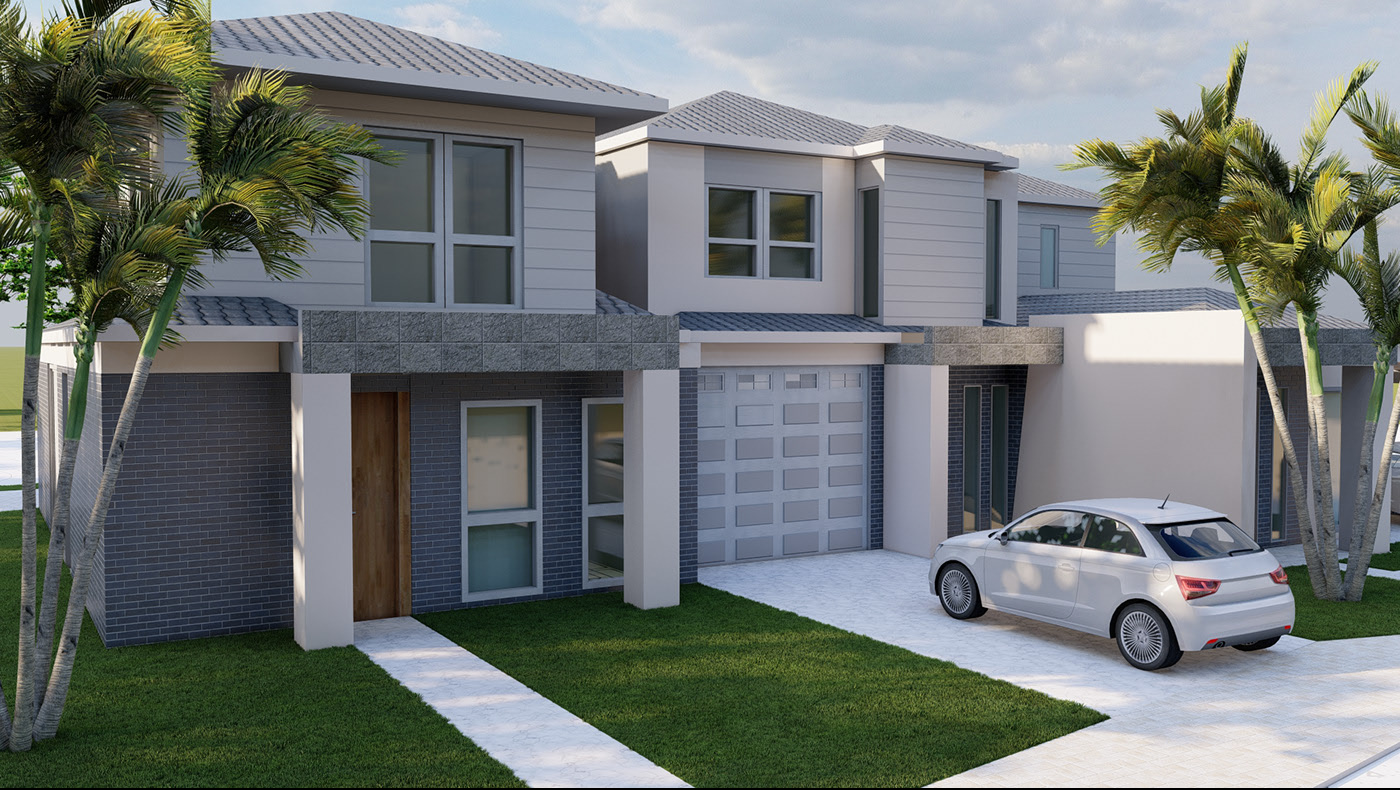
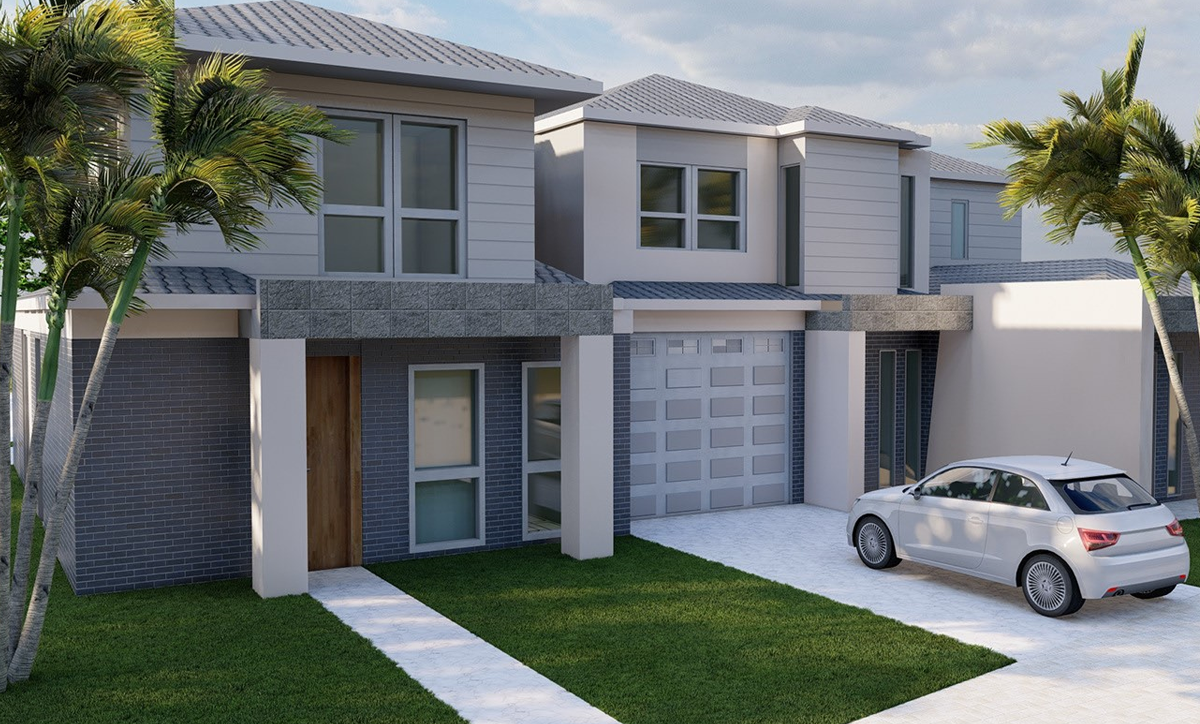
all up

diff --git a/3DModeling.html b/3DModeling.html
@@ -27,29 +27,25 @@
             align-content: center;
             padding: 25px;
             margin-top: 5px;
+            
+            
         }
-       .col-sm-4{
+     
         
-        padding-top: 10px;
-        padding-left: 5px;
-        overflow: hidden;
-        justify-content: center;
-        width: 625px;
-        height: 400px;
-        display: flex; 
-       }
-        
-       .col-sm-4 img{
-        vertical-align: middle;
+       .col-sm-4 image{
         object-fit: cover;
+        padding: 25px;
         overflow: hidden;
         justify-content: center;
-        width: 625px;
-        height: 400px;
-
+        width: 650px;
+        height: 300;
         display: flex;
+
+        
         
        }
+        
+      
              /* Add a black background color to the top navigation */
     .topnav {
         align-content: center;
@@ -65,11 +61,7 @@
      /* float: left; */
      background-color: #bbbbbb;
      align-items: center;
-<<<<<<< HEAD
     color: #252525;
-=======
-    color: #111111;
->>>>>>> 5c940e5438bf56ab28bd8db67124e917f00113ca
     text-align: center;
     margin-top: 20rem;
     padding: 0.6px 34px;
@@ -80,11 +72,7 @@
   }
   /* Change the color of links on hover */
   .topnav a:hover {
-<<<<<<< HEAD
     background-color: #1fa13f;
-=======
-    background-color: #48a878;
->>>>>>> 5c940e5438bf56ab28bd8db67124e917f00113ca
     color: black;
   }
   
@@ -111,7 +99,7 @@
 </div>
     <div class="row">
         <div class="col-sm-4">
-            <img src="ASSETS/3D MODEL/P 16.png" alt="" />
+            <img id="image" src="ASSETS/3D MODEL/P 16.png" alt="" />
         </div>
         
         <div class="col-sm-4">
@@ -120,98 +108,98 @@
         </div>
 
         <div class="col-sm-4">
-            <img src="ASSETS/3D MODEL/P 34.jpg" alt=""/>
+            <img id="image" src="ASSETS/3D MODEL/P 34.jpg" alt=""/>
         
         </div>
 
         <div class="col-sm-4">
-            <img src="ASSETS/3D MODEL/P 27.png" alt=""/> 
+            <img id="image" src="ASSETS/3D MODEL/P 27.png" alt=""/> 
         </div>
 
         <div class="col-sm-4">
-            <img src="ASSETS/3D MODEL/P 28.png" alt=""/>  
-
-        </div>
-
-        <div class="col-sm-4">
-            <img src="ASSETS/3D MODEL/P 33.png" alt=""/>
+            <img id="image" src="ASSETS/3D MODEL/P 28.png" alt=""/>  
 
         </div>
 
         <div class="col-sm-4">
-            <img src="ASSETS/3D MODEL/P 35.png" alt=""/>
+            <img id="image" src="ASSETS/3D MODEL/P 33.png" alt=""/>
 
         </div>
 
         <div class="col-sm-4">
-            <img src="ASSETS/3D MODEL/P 13.jpg" alt=""/>  
+            <img id="image" src="ASSETS/3D MODEL/P 35.png" alt=""/>
 
         </div>
 
         <div class="col-sm-4">
-            <img src="ASSETS/3D MODEL/P 11.jpg" alt=""/>  
+            <img id="image" src="ASSETS/3D MODEL/P 13.jpg" alt=""/>  
 
         </div>
 
         <div class="col-sm-4">
-            <img src="ASSETS/3D MODEL/P 04.jpg" alt=""/>
+            <img id="image" src="ASSETS/3D MODEL/P 11.jpg" alt=""/>  
+
+        </div>
+
+        <div class="col-sm-4">
+            <img id="image" src="ASSETS/3D MODEL/P 04.jpg" alt=""/>
 
         </div>
 
         
 
         <div class="col-sm-4">
-            <img src="ASSETS/3D MODEL/P 01.jpg" alt=""/> 
+            <img id="image" src="ASSETS/3D MODEL/P 01.jpg" alt=""/> 
 
         </div>
 
         <div class="col-sm-4">
-            <img src="ASSETS/3D MODEL/P 02.jpg" alt=""/> 
+            <img id="image" src="ASSETS/3D MODEL/P 02.jpg" alt=""/> 
 
         </div>
 
         <div class="col-sm-4">
-            <img src="ASSETS/3D MODEL/P 03.jpg" alt=""/>
+            <img id="image" src="ASSETS/3D MODEL/P 03.jpg" alt=""/>
 
         </div>
 
         <div class="col-sm-4">
-            <img src="ASSETS/3D MODEL/P 08.jpg" alt=""/> 
+            <img id="image" src="ASSETS/3D MODEL/P 08.jpg" alt=""/> 
 
         </div>
 
         <div class="col-sm-4">
-            <img src="ASSETS/3D MODEL/P 29.png" alt=""/>
+            <img id="image" src="ASSETS/3D MODEL/P 29.png" alt=""/>
 
         </div>
 
         <div class="col-sm-4">
-            <img src="ASSETS/3D MODEL/P 21.png" alt=""/>
+            <img id="image" src="ASSETS/3D MODEL/P 21.png" alt=""/>
 
         </div>
 
         <div class="col-sm-4">
-            <img src="ASSETS/3D MODEL/P 22.png" alt=""/>
+            <img id="image" src="ASSETS/3D MODEL/P 22.png" alt=""/>
 
         </div>
 
         <div class="col-sm-4">
-            <img src="ASSETS/3D MODEL/P 31.png" alt=""/>
+            <img id="image" src="ASSETS/3D MODEL/P 31.png" alt=""/>
 
         </div>
 
         <div class="col-sm-4">
-            <img src="ASSETS/3D MODEL/P 32.png" alt=""/>
+            <img id="image" src="ASSETS/3D MODEL/P 32.png" alt=""/>
 
         </div>
 
         <div class="col-sm-4">
-            <img src="ASSETS/3D MODEL/P 19.png" alt=""/>
+            <img id="image" src="ASSETS/3D MODEL/P 19.png" alt=""/>
 
         </div>
 
         <div class="col-sm-4">
-            <img src="ASSETS/3D MODEL/P 20.png" alt=""/>
+            <img id="image" src="ASSETS/3D MODEL/P 20.png" alt=""/>
 
         </div>
 

diff --git a/3DAnimation.html b/3DAnimation.html
@@ -63,11 +63,7 @@
      /* float: left; */
      background-color: #bbbbbb;
      align-items: center;
-<<<<<<< HEAD
     color: #242424;
-=======
-    color: #111111;
->>>>>>> 5c940e5438bf56ab28bd8db67124e917f00113ca
     text-align: center;
     margin-top: 20rem;
     padding: 0.6px 34px;
@@ -80,11 +76,7 @@
   /* Change the color of links on hover */
   .topnav a:hover {
     
-<<<<<<< HEAD
     background-color: #199649;
-=======
-   background-color: #48a878;
->>>>>>> 5c940e5438bf56ab28bd8db67124e917f00113ca
     color: black;
   }
   

diff --git a/MotionGraphics.html b/MotionGraphics.html
@@ -64,10 +64,7 @@
      background-color: #bbbbbb;
     color: #111111;
      align-items: center;
-<<<<<<< HEAD
     color: #222222;
-=======
->>>>>>> 5c940e5438bf56ab28bd8db67124e917f00113ca
     text-align: center;
     margin-top: 20rem;
     padding: 0.6px 34px;
